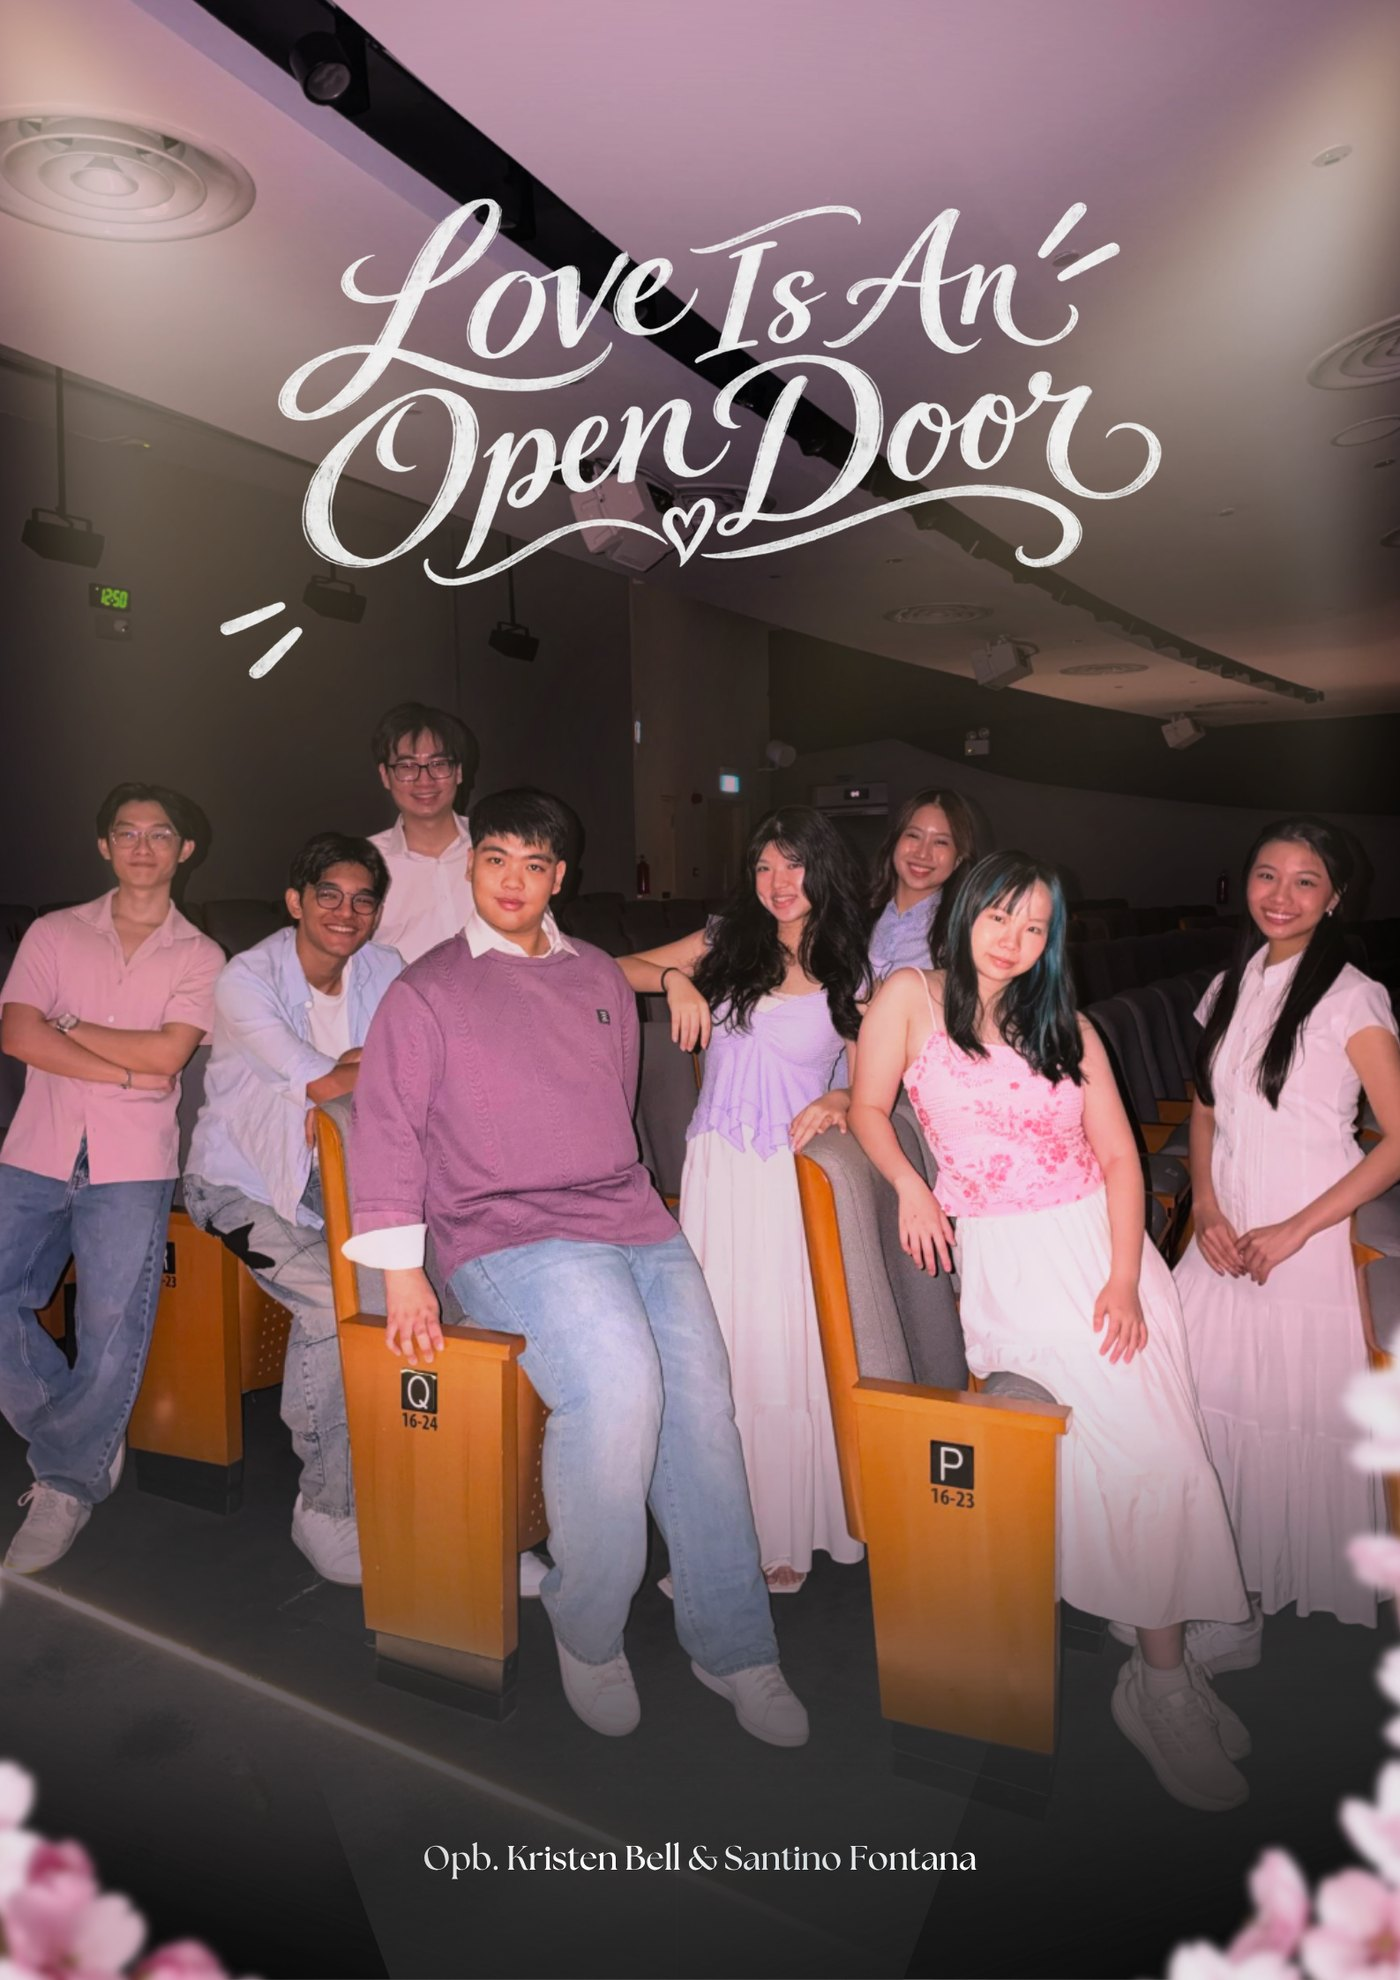
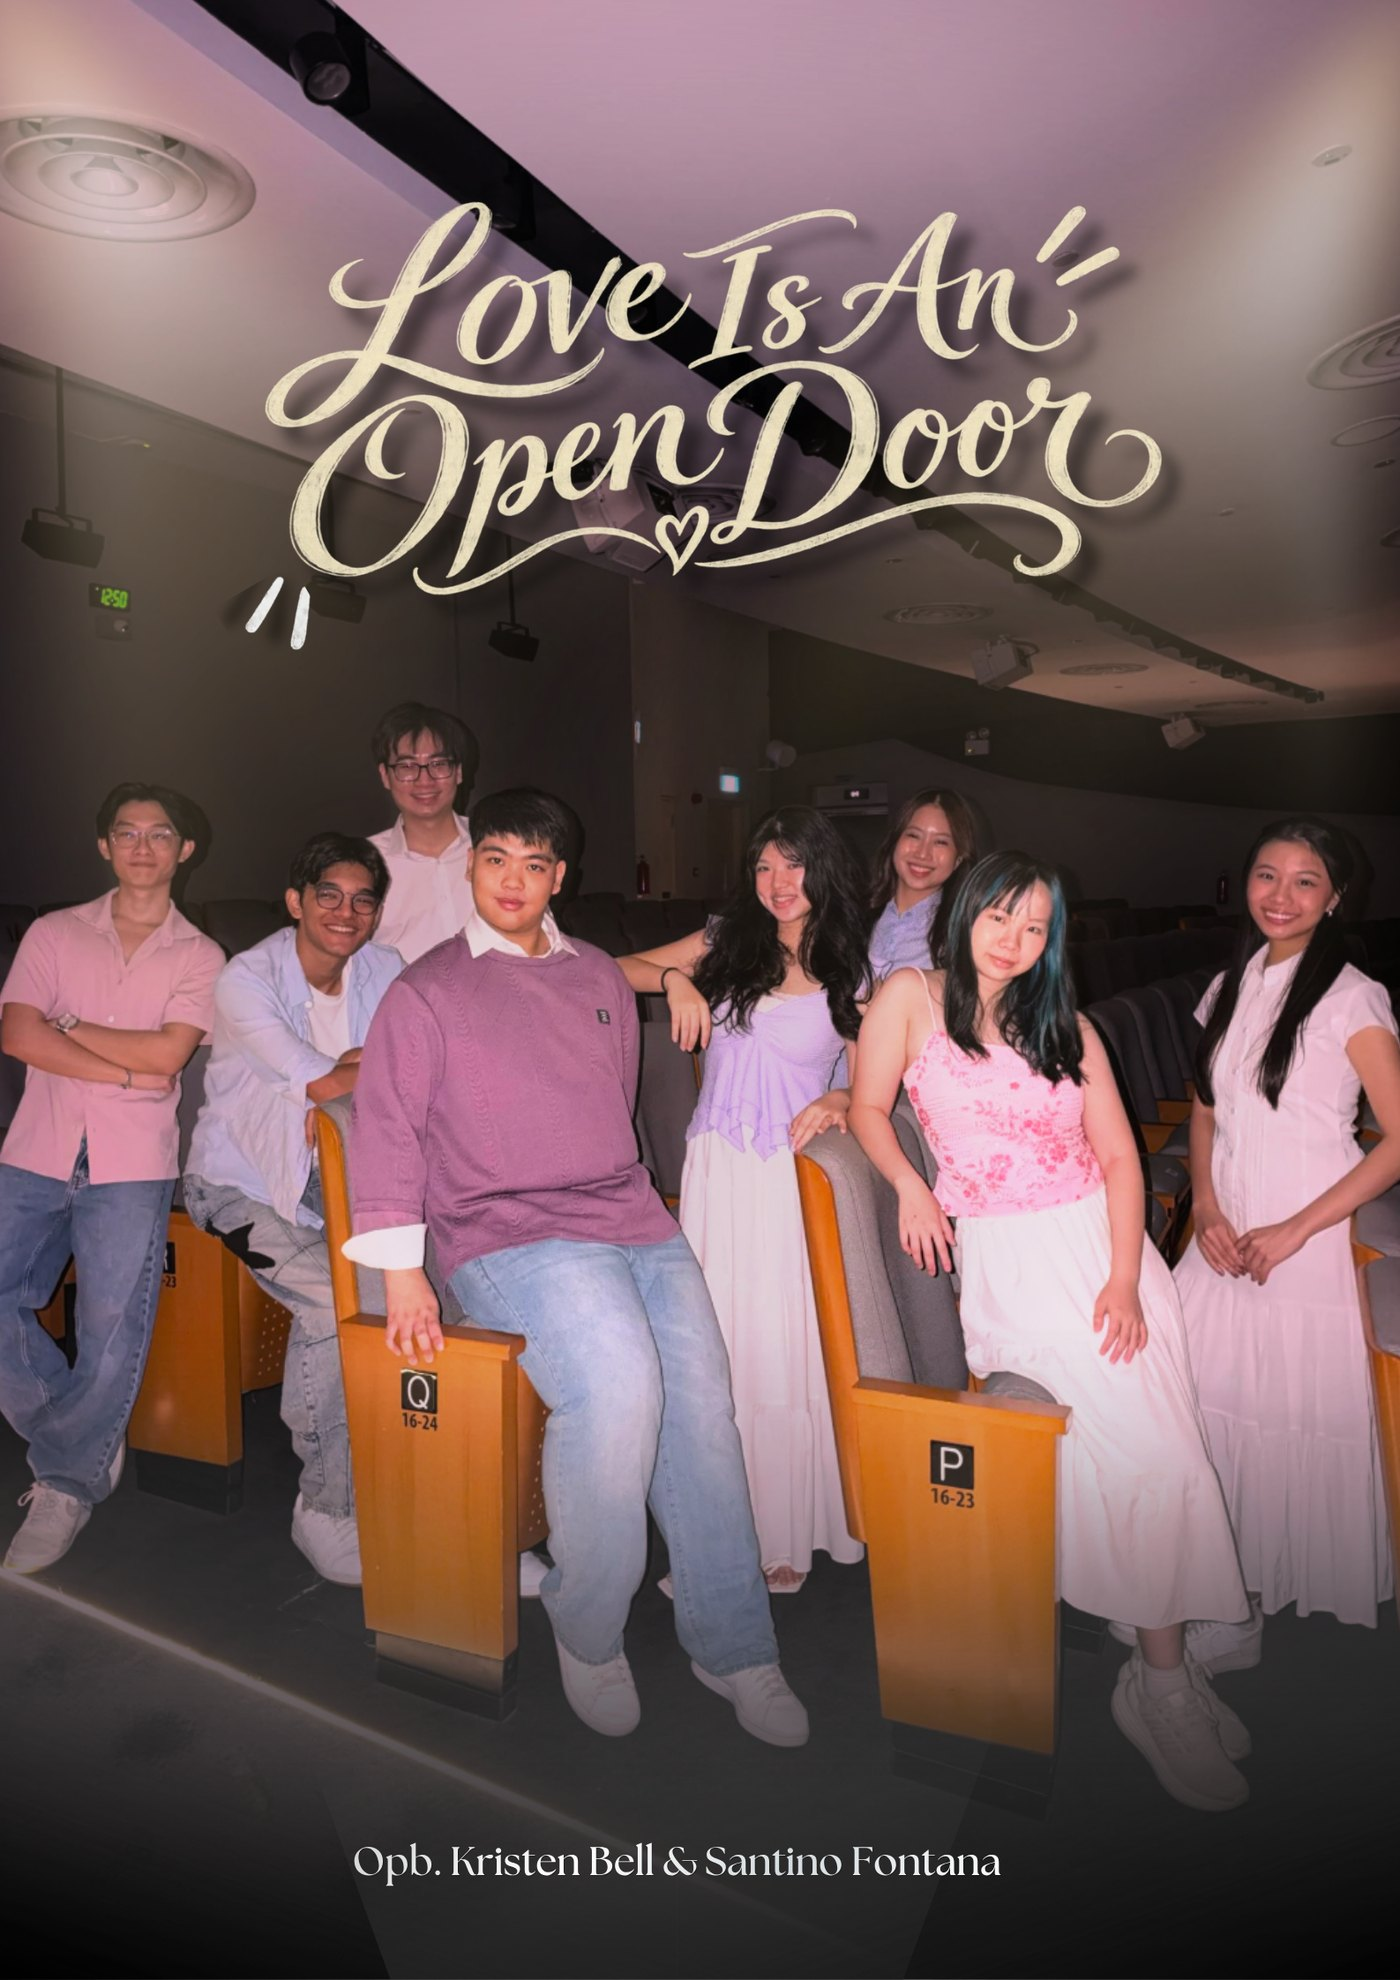
v34.42: new Love is an Open Door poster; sw cache -> chromatica-booklet-5
Claude-Session: https://claude.ai/code/session_01L9GG8eWH16HdW9AzuUoaCt

diff --git a/sw.js b/sw.js
@@ -6,7 +6,7 @@
 //  - offline, or when the network takes longer than 4 seconds, opens the saved copy instead.
 // Links to other sites (the socials, BookMyShow) are never touched.
 // Changing CACHE (say to 'chromatica-booklet-4') clears every saved copy on the next visit.
-const CACHE = 'chromatica-booklet-4';
+const CACHE = 'chromatica-booklet-5';
 const PAGE = new URL('./', self.registration.scope).href; // the booklet itself: the site's top address
 const WAIT = 4000; // how long to wait for the network (ms) before opening the saved copy
 
